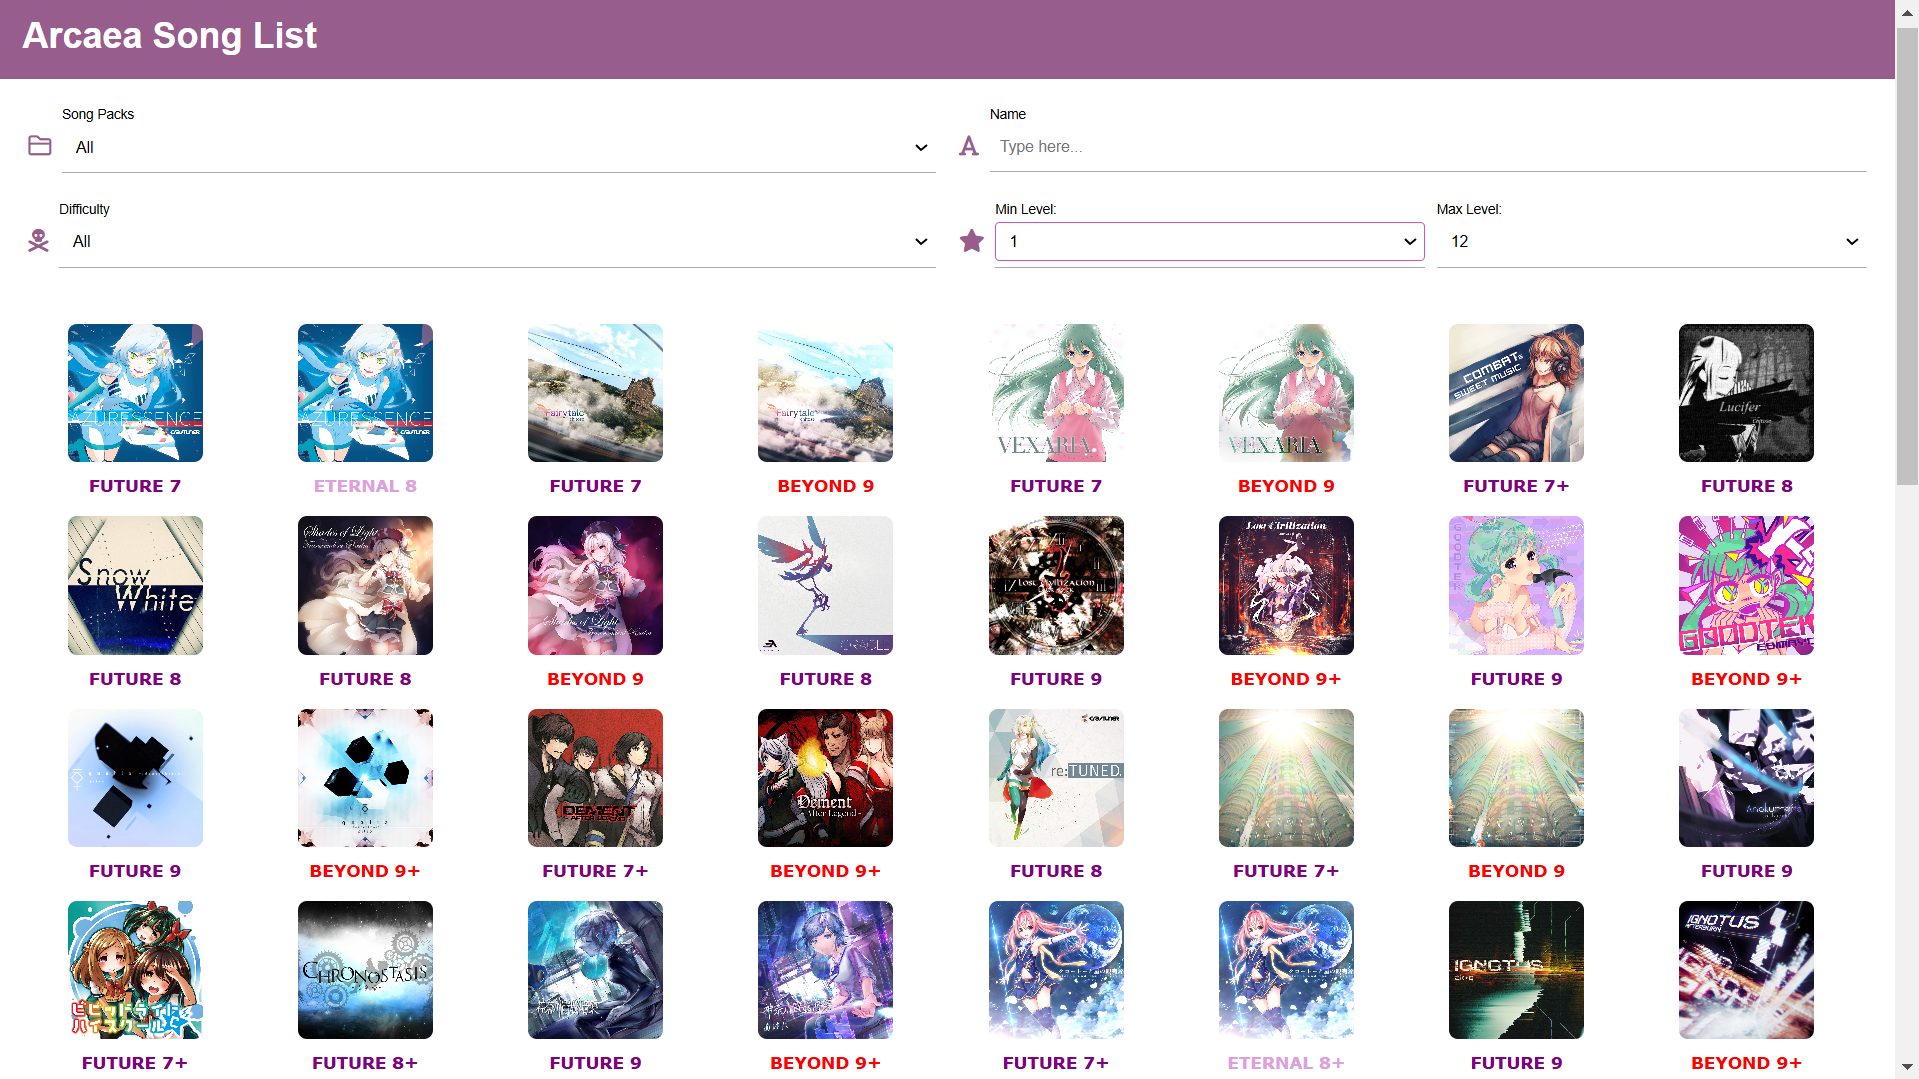
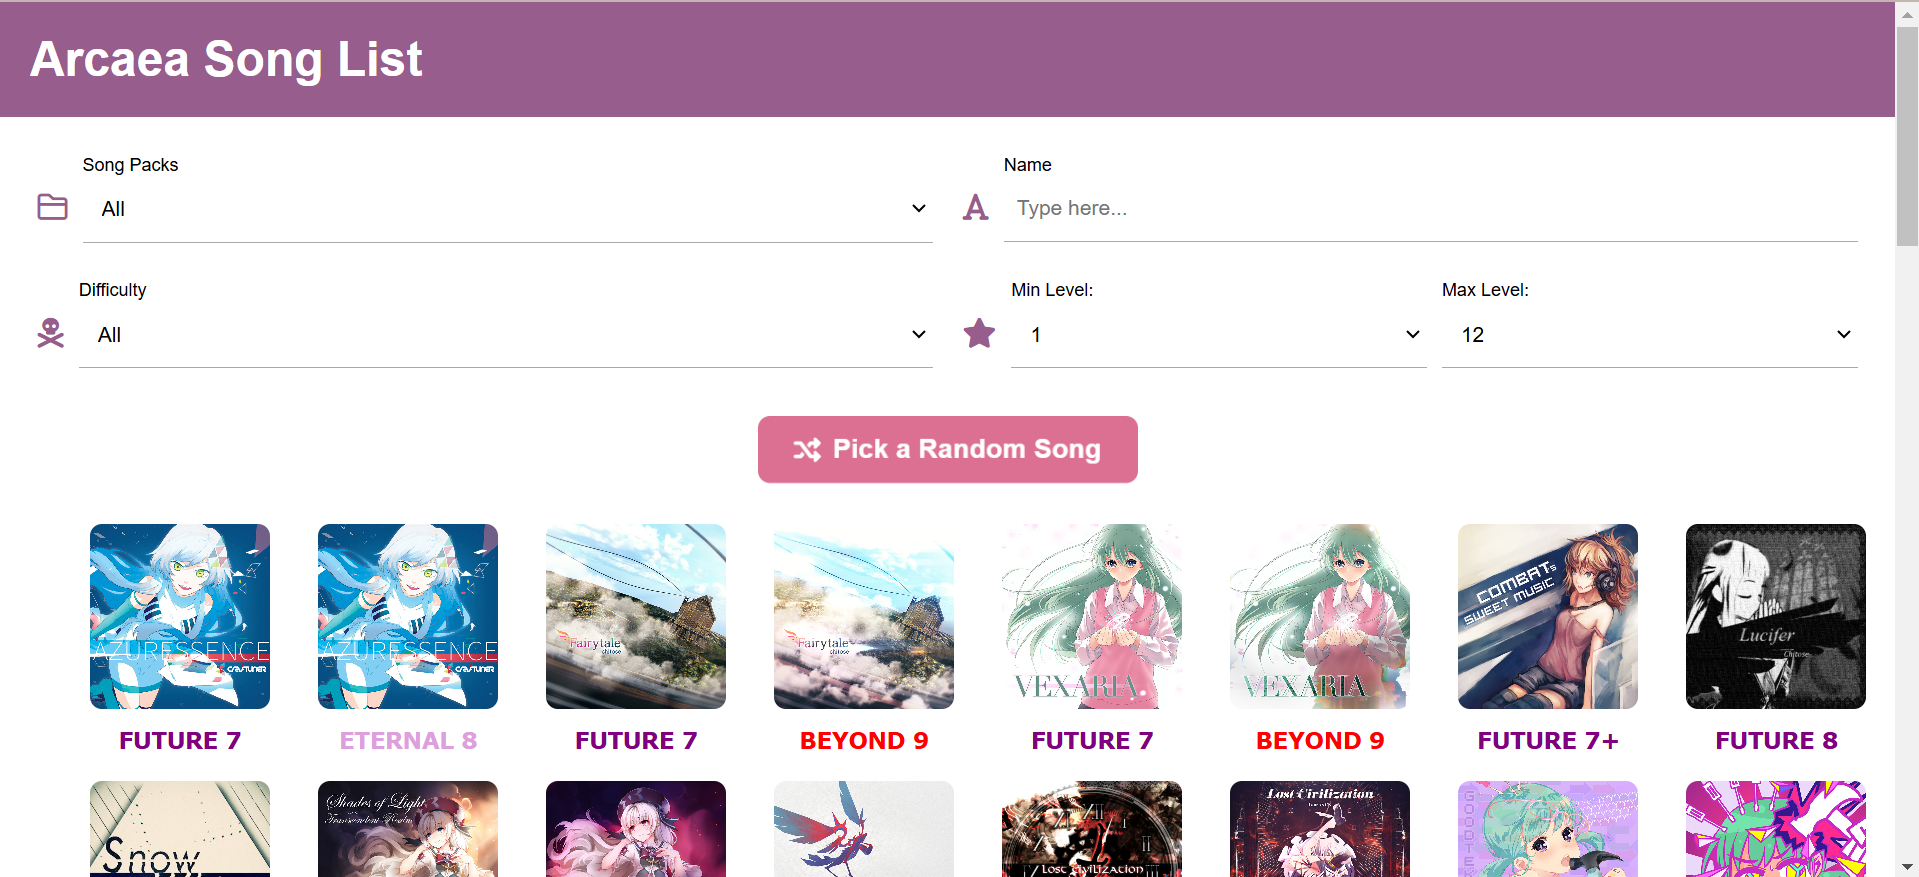
Random Pick Song Button

diff --git a/song_grid.js b/song_grid.js
@@ -1,5 +1,4 @@
-// song_grid.js 
-fetch('data/song_list.json') // 载入 JSON 文件
+fetch('data/song_list.json') // Load the JSON file
     .then(response => response.json())
     .then(songs => {
         const songList = document.querySelector('.song-grid');
@@ -9,7 +8,7 @@ fetch('data/song_list.json') // 载入 JSON 文件
         songs.forEach(song => {
             const difficultyClass = song.difficulty.toLowerCase();
 
-            // 动态创建歌曲卡片
+            // Dynamically create song cards
             const card = document.createElement('div');
             card.classList.add('song-card');
             card.innerHTML = `
@@ -17,9 +16,9 @@ fetch('data/song_list.json') // 载入 JSON 文件
                 <label class="${difficultyClass}">${song.difficulty} ${song.level}</label>
             `;
 
-            // 添加点击事件
+            // Add click event to each card
             card.addEventListener('click', () => {
-                // 动态生成 Modal 内容
+                // Dynamically generate modal content
                 modalContent.innerHTML = `
                     <img src="${song.image}" alt="${song.title}">
                     <p>${song.pack}</p>
@@ -32,20 +31,79 @@ fetch('data/song_list.json') // 载入 JSON 文件
                     <p>Unlock Condition: ${song.unlock}</p>
                 `;
 
-                // 显示 Modal
+                // Show modal
                 modal.classList.remove('hidden');
                 modal.classList.add('show');
-
-                // Close the modal when clicking outside the modal content
-                modal.addEventListener('click', (event) => {
-                    if (event.target === modal) {
-                        modal.classList.add('hidden');
-                    }
-                });
-
             });
 
             songList.appendChild(card);
         });
+
+        // Close modal when clicking outside modal content
+        modal.addEventListener('click', (event) => {
+            if (event.target === modal) {
+                modal.classList.add('hidden');
+            }
+        });
+
+        // Random button functionality
+        document.getElementById("random-button").addEventListener("click", function() {
+            // Show modal
+            const modal = document.getElementById("song-modal");
+            modal.classList.remove('hidden');
+            modal.classList.add('show');
+
+            // Initially show "Drawing..."
+            const modalContent = modal.querySelector('.modal-content');
+
+            // Simulate random scroll animation
+            let count = 0;
+            const animationInterval = setInterval(() => {
+                const randomIndex = Math.floor(Math.random() * songs.length); // Use songs array for random selection
+                modalContent.innerHTML = `
+                    <img src="${songs[randomIndex].image}" alt="${songs[randomIndex].title}">
+                    <p>${songs[randomIndex].pack}</p>
+                    <h3>${songs[randomIndex].title}</h3>
+                    <p>${songs[randomIndex].artist}</p>
+                    <label class="${songs[randomIndex].difficulty.toLowerCase()}">${songs[randomIndex].difficulty} ${songs[randomIndex].constant}</label>
+                    <p>BPM: ${songs[randomIndex].bpm}</p>
+                    <p>Side: ${songs[randomIndex].side}</p>
+                    <p>Chart Designer: ${songs[randomIndex].chart_designer}</p>
+                    <p>Unlock Condition: ${songs[randomIndex].unlock}</p>
+                    
+                `;
+            }, 50); // Change every 100ms for random effect
+
+            // After 2 seconds, show the final result
+            setTimeout(() => {
+                clearInterval(animationInterval); // Stop the animation
+                const finalSong = songs[Math.floor(Math.random() * songs.length)]; // Randomly pick a final song
+                
+                // Update modal content with final song details
+                modalContent.innerHTML = `
+                    <img src="${finalSong.image}" alt="${finalSong.title}">
+                    <p>${finalSong.pack}</p>
+                    <h3>${finalSong.title}</h3>
+                    <p>${finalSong.artist}</p>
+                    <label class="${finalSong.difficulty.toLowerCase()}">${finalSong.difficulty} ${finalSong.constant}</label>
+                    <p>BPM: ${finalSong.bpm}</p>
+                    <p>Side: ${finalSong.side}</p>
+                    <p>Chart Designer: ${finalSong.chart_designer}</p>
+                    <p>Unlock Condition: ${finalSong.unlock}</p>
+                    <button id="pick-again-button">Pick Again</button>
+                `;
+                
+                // Add event listener to the "Pick Again" button
+                document.getElementById("pick-again-button").addEventListener("click", function() {
+                    // Reset the modal content and call the random button functionality again
+                    document.getElementById("random-button").click();
+                });
+            }, 2000);
+        });
+
+        
+
     })
     .catch(error => console.error('Error loading songs:', error));
+
+

diff --git a/main.css b/main.css
@@ -184,9 +184,13 @@ header {
     padding: 15px;
     border-radius: 8px;
     width: 350px;
-    height: 550px;
+    height: 600px;
     text-align: center;
     box-shadow: 0 5px 15px rgba(0, 0, 0, 0.3);
+    display: flex;
+    flex-direction: column;  /* Stack children vertically */
+    justify-content: flex-start;  /* Keep content at the top initially */
+    position: relative;  /* Needed for absolute positioning of the button */
 }
 
 .modal-content img {
@@ -248,3 +252,48 @@ header {
     display: none;
 }
 
+/* Random Button*/
+.button-container {
+    display: flex;
+    justify-content: center;  /* 水平置中 */
+    align-items: center;      /* 垂直置中 */
+    height: 5vh;            /* 讓容器撐滿整個畫面 */
+    margin-bottom: 25px;      /* 留出空間 */
+}
+
+/* 按鈕樣式 */
+#random-button {
+    display: flex;
+    align-items: center;  /* 讓 icon & 文字對齊 */
+    gap: 8px;            /* icon 和文字之間的間距 */
+    padding: 12px 24px;
+    font-size: 18px;
+    font-weight: bold;
+    border: none;
+    border-radius: 8px;
+    background-color: palevioletred; /* 紅色調 */
+    color: white;
+    cursor: pointer;
+    transition: 0.2s ease-in-out;
+}
+
+/* hover 效果 */
+#random-button:hover {
+    background-color: #e60000;
+    transform: scale(1.05);
+}
+
+#pick-again-button {
+    align-self: flex-end;  /* Align button to the right */
+    margin-top: auto;  /* Push the button to the bottom */
+    padding: 12px 24px;
+    gap: 8px;
+    font-size: 12px;
+    font-weight: bold;
+    border: none;
+    border-radius: 8px;
+    background-color: palevioletred;
+    color: white;
+    cursor: pointer;
+    transition: 0.2s ease-in-out;
+}

diff --git a/index.html b/index.html
@@ -129,6 +129,13 @@
         </div>
     </section>
 
+    <!-- Random Song Button -->
+    <div class="button-container">
+        <button id="random-button">
+            <i class="fas fa-random"></i> Pick a Random Song
+        </button>
+    </div>    
+    
     <!-- Song Grid Section -->
     <section id="song-grid" class="song-grid">
         
